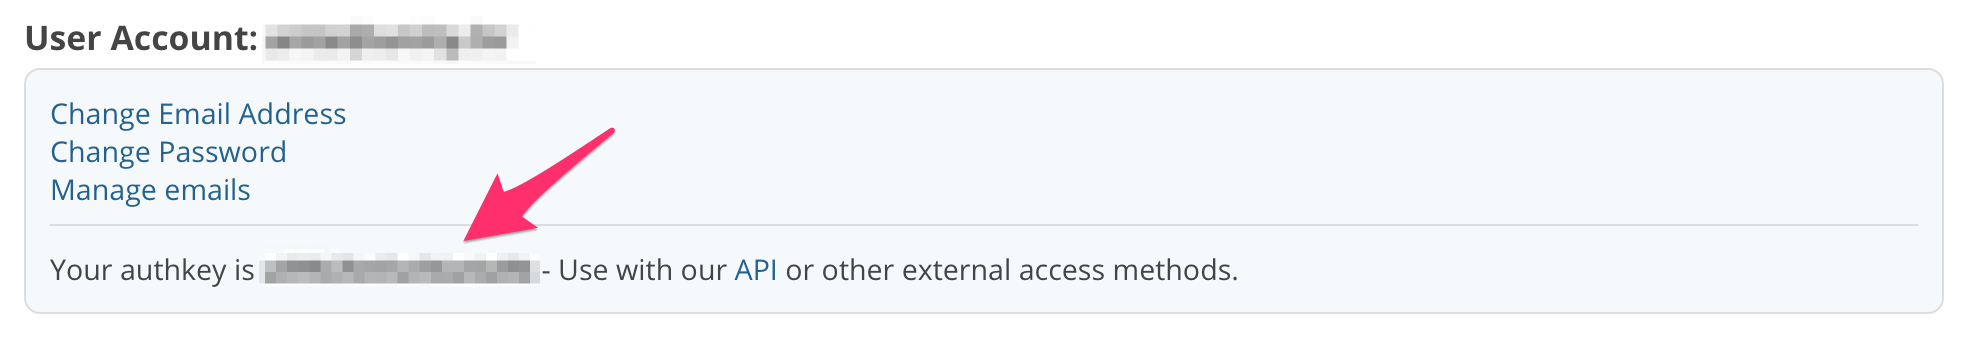
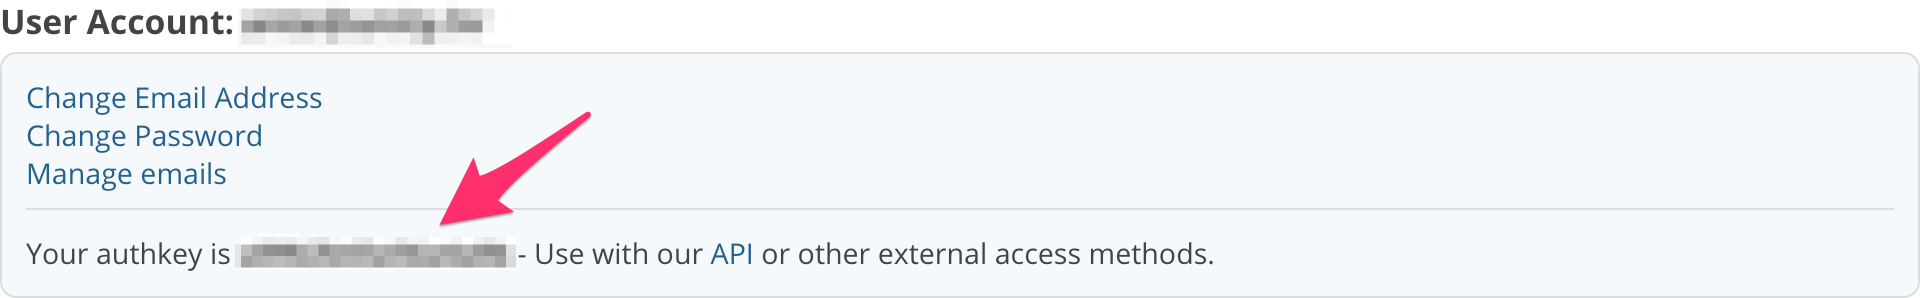
Prevent image from stretching

diff --git a/readme.md b/readme.md
@@ -47,7 +47,7 @@ cbtTunnel()
 
 You can find out what your authentication key is by logging into CrossBrowserTesting, clicking "Account" in the navigation bar and choosing "Account" from the dropdown menu.
 
-<img src="images/authkey.png" width="983" height="170">
+<img src="images/authkey.png" width="983">
 
 
 ## API
